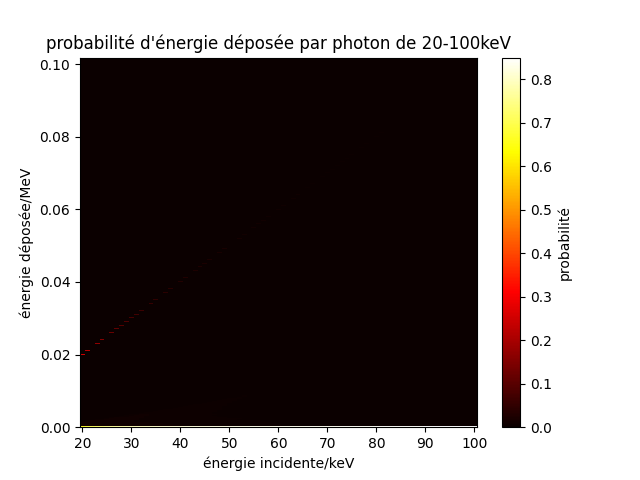
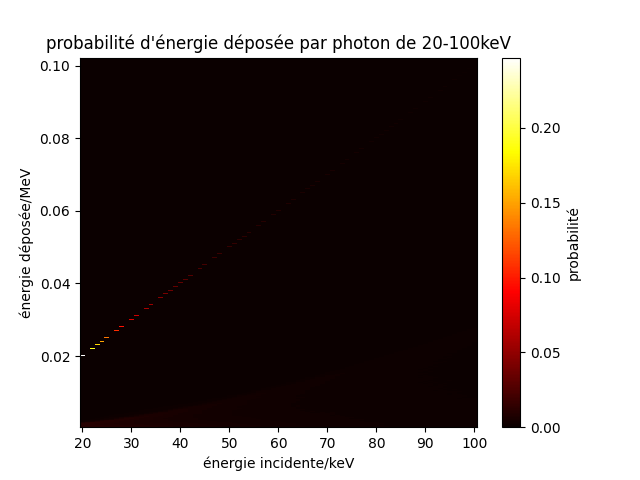
figure photon 1-200

diff --git a/tdcrpy/MCNP-MATRIX/matrice.py b/tdcrpy/MCNP-MATRIX/matrice.py
@@ -283,7 +283,7 @@ def matrice_fig(matrice_p,start,end,e,par,v):
         yy = yy[2:,:]
     
     ''' 
-    if end > 20 and par=='p':
+    if end > 50 and par=='p':
         zz = zz[2:,:]
         y = y[2:]
     #print(xx.shape,yy.shape,zz.shape)
@@ -496,12 +496,12 @@ def find_info(niveau,par,info,npas=1000,mode='N'):
 
 
 #================ tracer la matrice ========================================
-#e,matrice_p = creat_matrice(0,par='p')
+e,matrice_p = creat_matrice(0,par='p')
 #print(len(e))
 #print(matrice_p[76:90,25])
 #print(matrice_p.shape,matrice_p[0,541:543])
 #ecri = ecrit_matrice(matrice_p,1,'b',16) 
-#fig1 = matrice_fig(matrice_p,20,100,e,'p',10)
+fig1 = matrice_fig(matrice_p,50,100,e,'p',10)
 #for i in range(1003):
   #  for j in range(901):
  #       matrice_p[i][j] = np.log(matrice_p[i][j]+1e-8)
